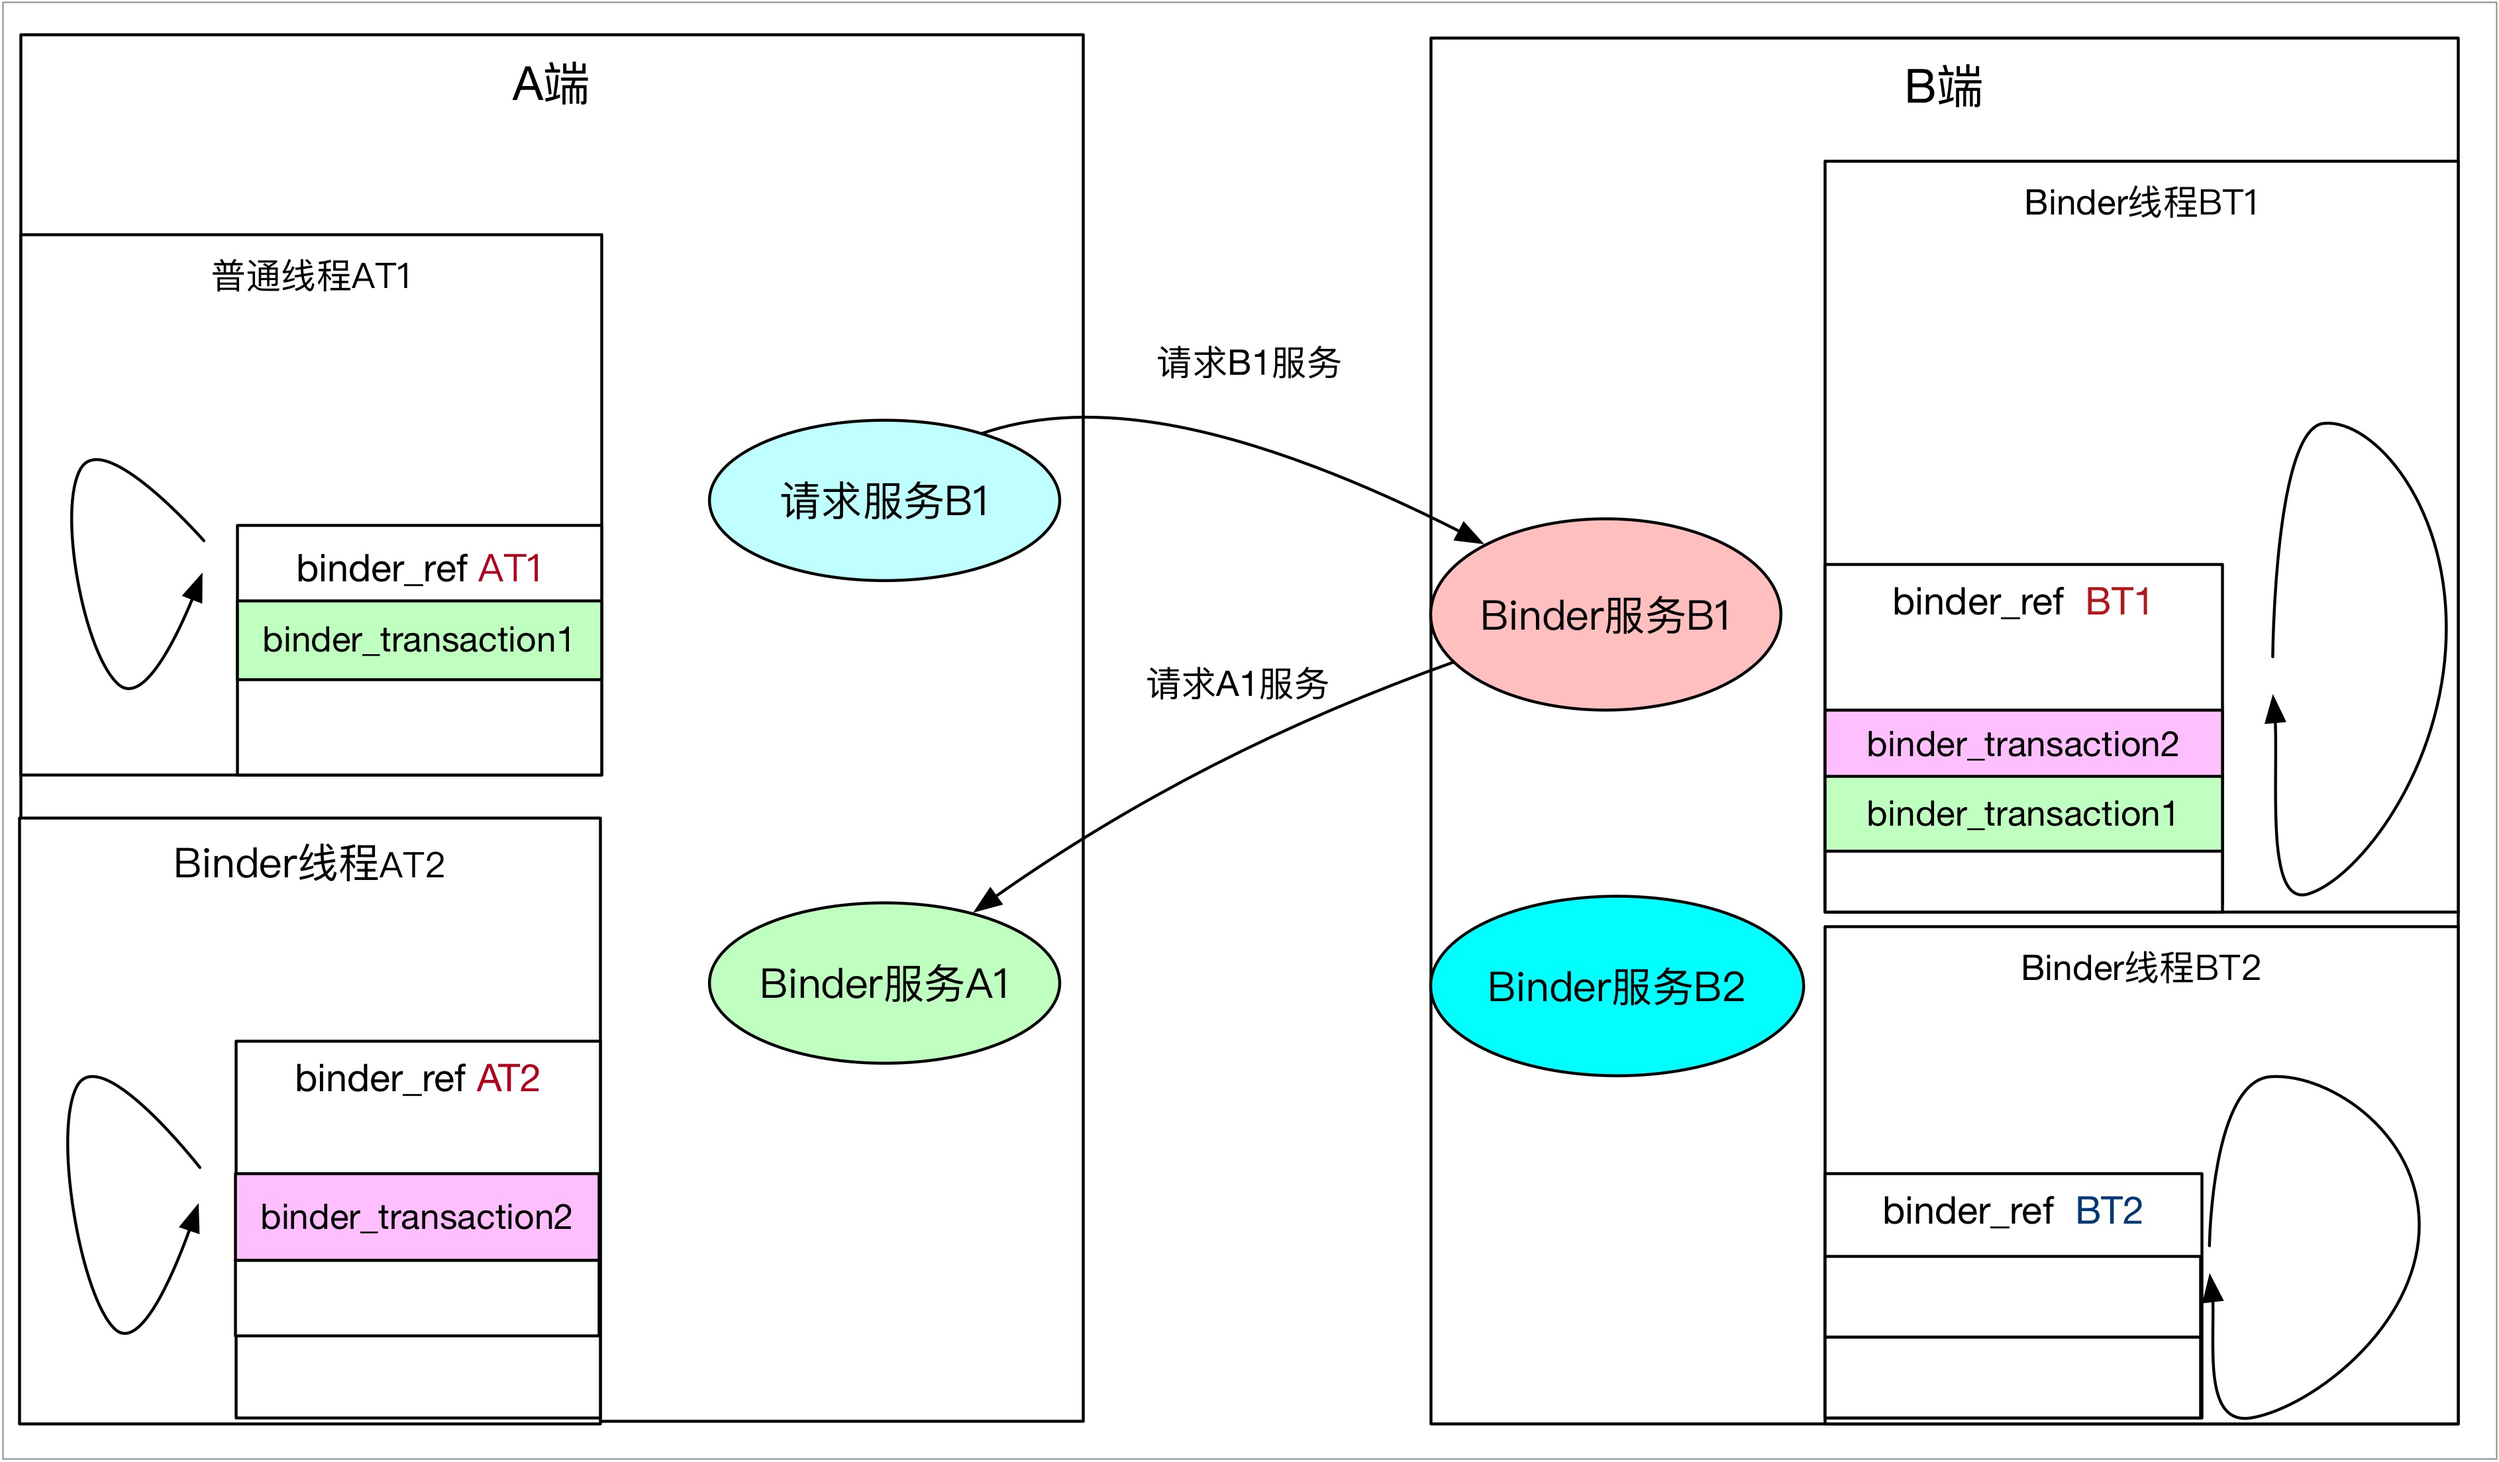
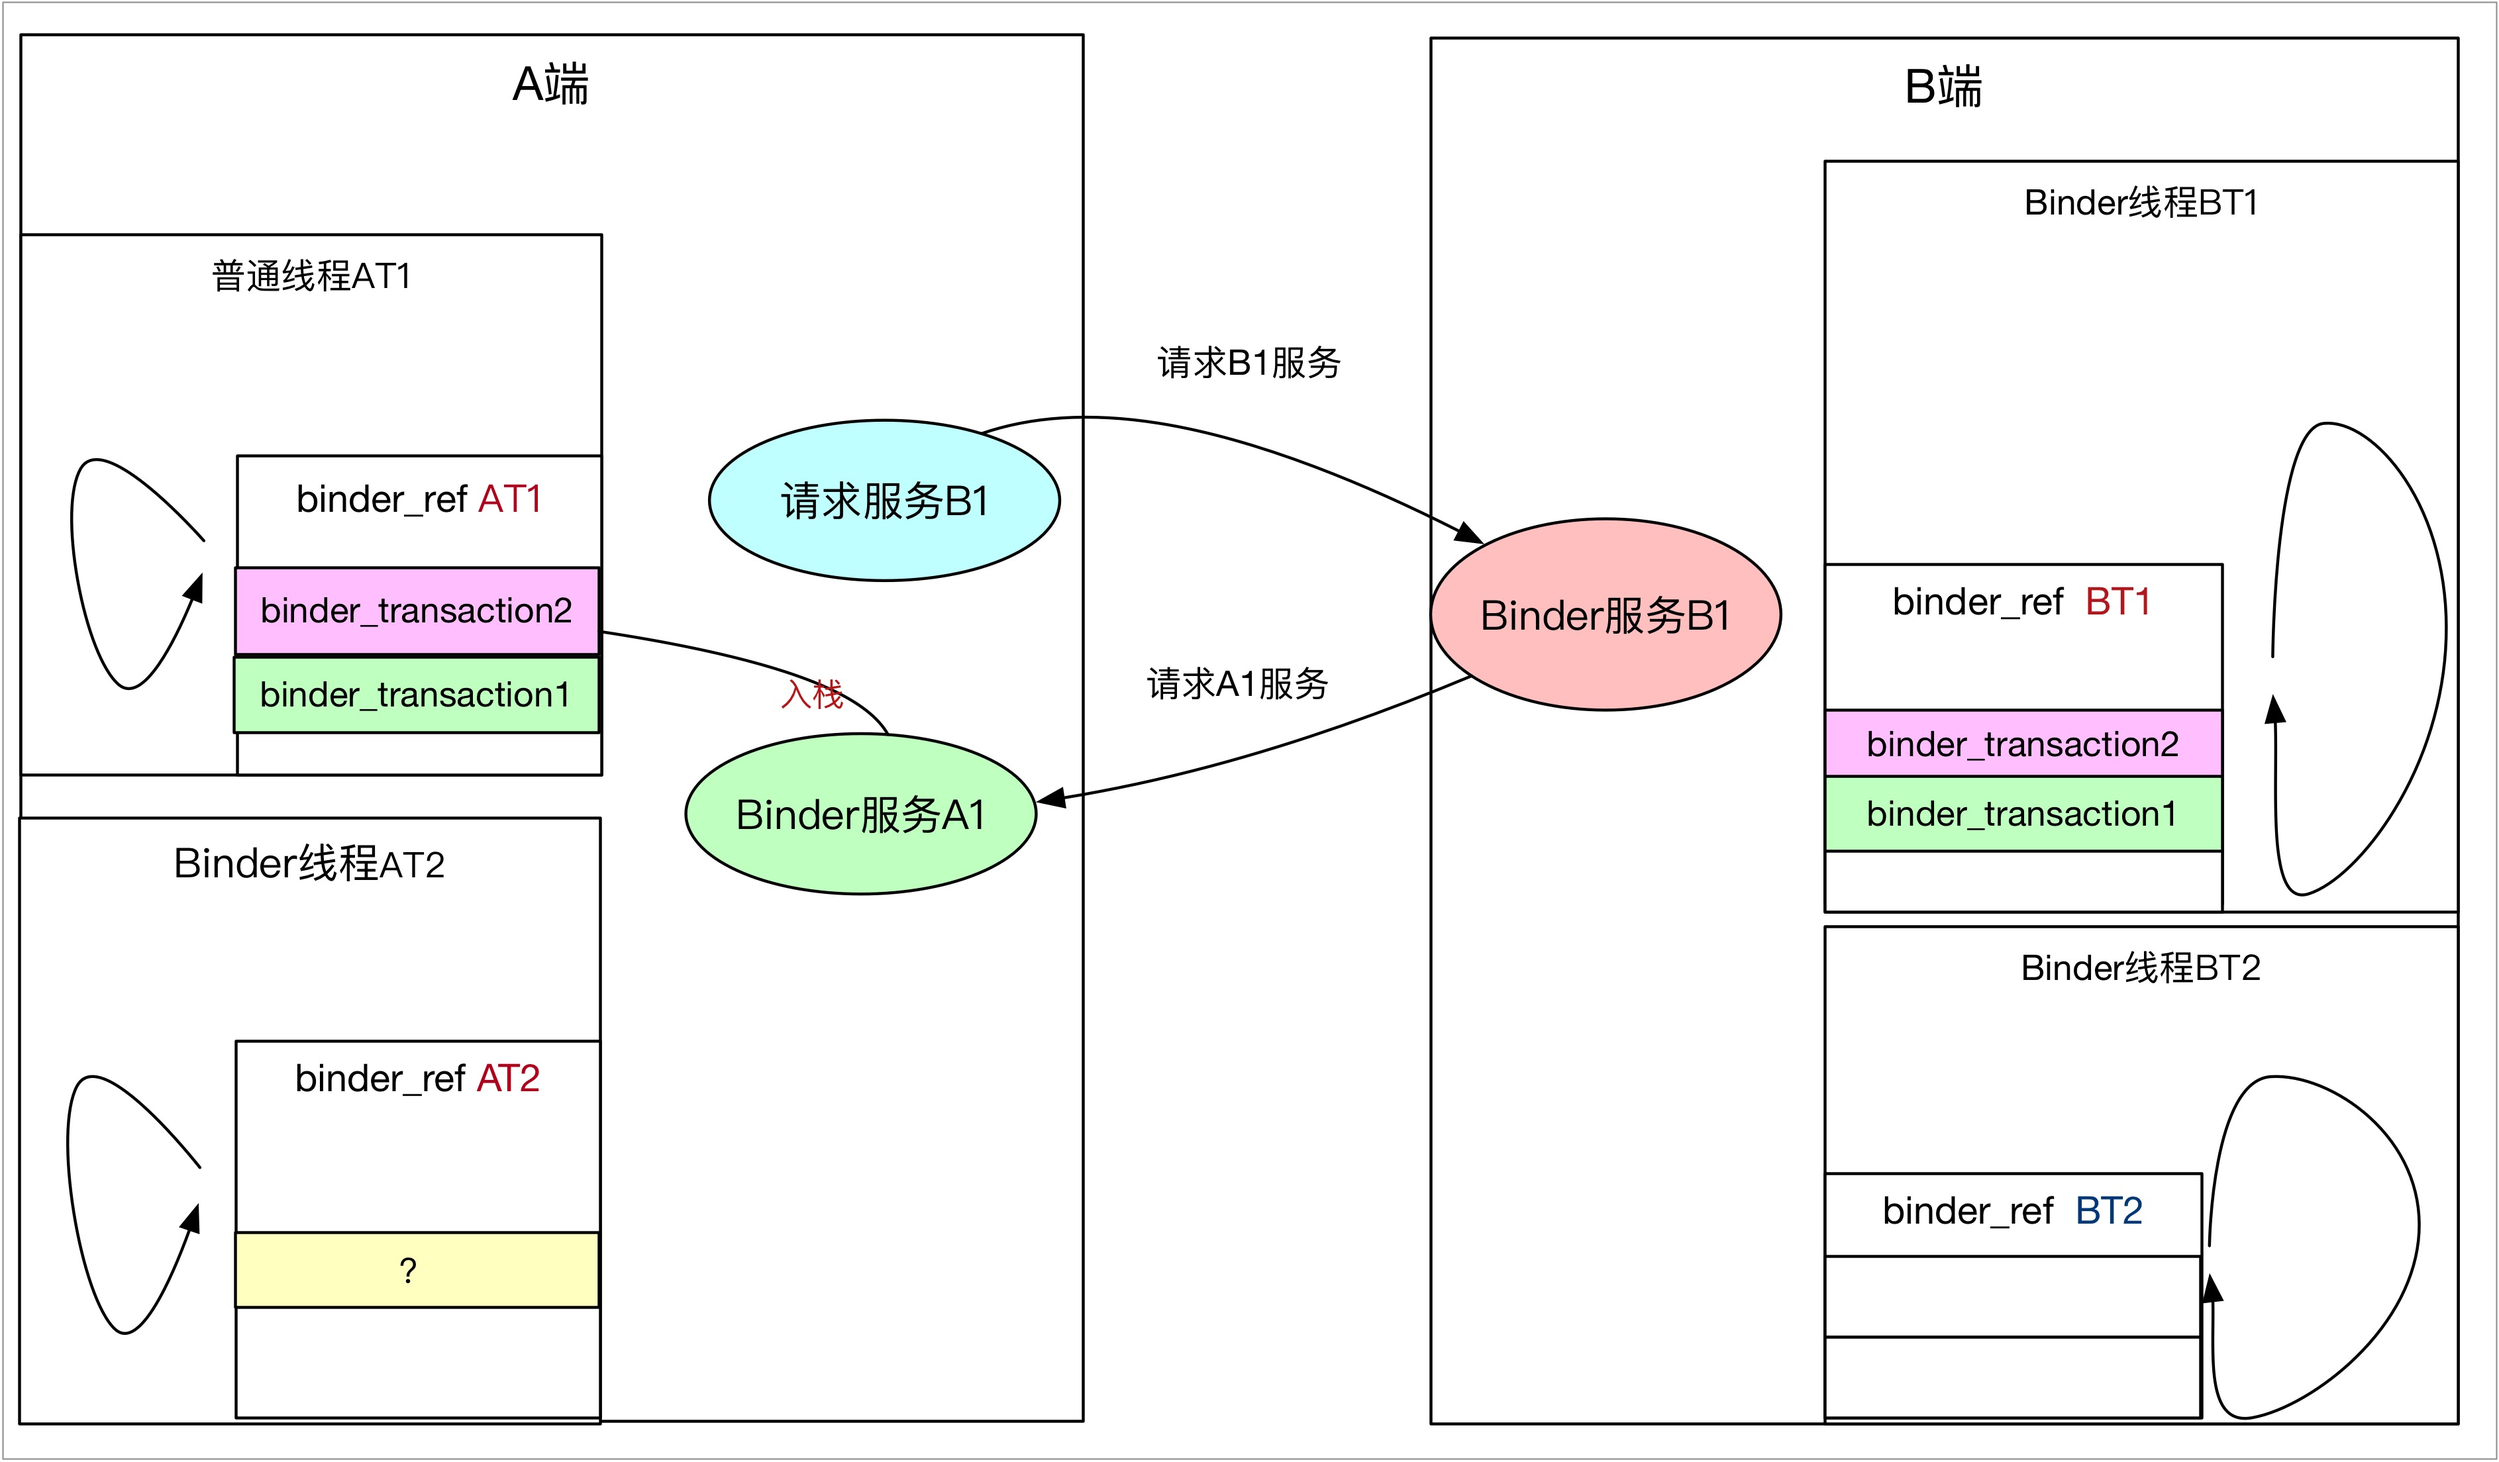
ContentProvider 只是一个抽象接口层

diff --git a/_posts/Android/Binder/2017-2-3-换个姿势深入Binder（二）.md b/_posts/Android/Binder/2017-2-3-换个姿势深入Binder（二）.md
@@ -26,40 +26,35 @@ image: http://upload-images.jianshu.io/upload_images/1460468-4e10b08878b9145c.jp
 
 再看第二部分：在Binder驱动去唤醒线程的时候，唤醒的是哪个等待队列上的线程？
 
-理解这个问题需要理解binder_thread中的 struct binder_transaction * transaction_stack栈，这个栈规定了transaction的执行顺序：**栈顶的一定先于栈内执行**。
+理解这个问题需要理解binder_thread中的 struct binder_transaction * transaction_stack栈，这个栈规定了transaction的执行顺序：栈顶的一定先于栈内执行。
 
 如果本地操作是BC_REPLY,一定是唤醒之前发送等待的线程，这个是100%的，但是如果是BC_TRANSACTION，那就不一定了,尤其是当两端互为服务相互请求的时候，场景如下：
 
 * 进程A的普通线程AT1请求B进程的B1服务，唤醒B进程的Binder线程，AT1睡眠等待服务结束
-* B进程的B1服务在执行的的时候，需要请求进程A的A1服务，则B进程的Binder线程BT1睡眠，唤醒A进程的Binder线程，等待服务结束
-* A进程的A1服务在执行的时候，又需要B进程的B2服务，则A进程的binder线程AT2睡眠，唤醒B进程的Binder线程，等待服务结束
+* B进程的B1服务在执行的的时候，需要请求进程A的A1服务，则B进程的Binder线程BT1睡眠，等待服务结束。
 
-这个时候就会遇到一个问题：唤醒哪个线程比较合适？是睡眠在进程队列上的线程，还是之前睡眠的线程BT1？答案是：之前睡眠的线程BT1，具体看下面的图解分析
+这个时候就会遇到一个问题：唤醒哪个线程比较合适？是睡眠在进程队列上的线程，还是之前睡眠的线程AT1？答案是：之前睡眠等待B服务返回的线程AT1，具体看下面的图解分析
 
 首先第一步A普通线程去请求B进程的B1服务，这个时候在A进程的AT1线程的binder_ref中会将binder_transaction1入栈，而同样B的Binder线程在读取binder_work之后，也会将binder_transaction1加入自己的堆栈，如下图：
 
-![binder_transaction堆栈及唤醒那个队列1](http://upload-images.jianshu.io/upload_images/1460468-bf8383863b7cca9e.jpg?imageMogr2/auto-orient/strip%7CimageView2/2/w/1240)
+![binder_transaction堆栈及唤醒那个队列1.jpg](http://upload-images.jianshu.io/upload_images/1460468-ca53512cddf2e685.jpg?imageMogr2/auto-orient/strip%7CimageView2/2/w/1240)
 
-而当B的Binder线程被唤醒后，执行Binder实体中的服务时，发现服务函数需要反过来去请求A端的A1服务，那就需要通过Binder向A进程发送请求，并新建binder_transaction2压入自己的binder_transaction堆栈，而A进程的Binder线程被唤醒后也会将binder_transaction2加入自己的堆栈，会后效果如下：
+而当B的Binder线程被唤醒后，执行Binder实体中的服务时，发现服务函数需要反过来去请求A端的A1服务，那就需要通过Binder向A进程发送请求，并新建binder_transaction2压入自己的binder_transaction堆栈，这个没有任何问题。但是，在A端入栈的时候，会面临一个抉择，写入那个队列？是binder_proc上的队列，还是正在等候B1服务返回的AT1线程的队列？
 
-![binder_transaction堆栈及唤醒那个队列2.jpg](http://upload-images.jianshu.io/upload_images/1460468-f1b80a2898a7e2cc.jpg?imageMogr2/auto-orient/strip%7CimageView2/2/w/1240)
+![binder_transaction堆栈及唤醒那个队列2.jpg](http://upload-images.jianshu.io/upload_images/1460468-6fba7345a4813d08.jpg?imageMogr2/auto-orient/strip%7CimageView2/2/w/1240)
 
-这个时候，还是没有任何问题，但是恰好在执行A1服务的时候，又需要请求B2服务，这个时候，A1线程重复上述压栈过程，新建binder_transaction3压入自己的栈，不过在写入到目标端B的时候，会面临一个抉择，写入那个队列，是binder_proc上的队列，还是正在等候A返回的BT1线程的队列？
+结果已经说过，是AT1的队列，为什么呢？因为AT1队列上的之前的binder_transaction1在等待B进程执行完，但是B端执行binder_transaction1时候，需要等待binder_transaction2执行完，也就是说，在binder_transaction2执行完毕前，A端的binder_transaction1一定是不会被执行的，也就是线程AT1在B执行binder_transaction2的时候，一定是空闲的，那么，不妨唤醒AT1线程，让它帮忙执行完binder_transaction2，执行完之后，AT1又会睡眠等待B端返回，这样，既不妨碍binder_transaction1的执行，同样也能提高AT1线程利用率，出栈的过程其实就简单了，
 
-![binder_transaction堆栈及唤醒那个队列3.jpg](http://upload-images.jianshu.io/upload_images/1460468-27a4e194dd840848.jpg?imageMogr2/auto-orient/strip%7CimageView2/2/w/1240)
+* AT1 执行binder_transaction2，唤醒B端BT1 Binder线程，并且AT1继续睡眠（因为还有等待的transaction）
+* BT1 处理binder_transaction2结果，并执行完binder_transaction1，唤醒AT1
+* AT1处理binder_transaction1返回结果 执行结束
 
-结果已经说过，是BT1的队列，为什么呢？因为BT1队列上的之前的binder_transaction2在等待A进程执行完，但是A端的binder_transaction3同样要等待binder_transaction3在B进程中执行完毕，也就是说，binder_transaction3在B端一定是先于binder_transaction2执行的，因此唤醒BT1线程，并将binder_transaction3压入BT2的栈，等binder_transaction3执行完毕，出栈后，binder_transaction2才能执行，这样，既不妨碍binder_transaction2的执行，同样也能让睡眠的BT1进程提高利用率，因为最终的堆栈效果就是：
+不妨再深入一点，如果A端binder_transaction2又需要B进程B2服务，这个时候是什么效果唤醒谁，答案是BT1，这就杜绝了两端循环请求的，不断增加线程池容量。
 
-![binder_transaction堆栈及唤醒那个队列4.jpg](http://upload-images.jianshu.io/upload_images/1460468-5b666e626f3e0365.jpg?imageMogr2/auto-orient/strip%7CimageView2/2/w/1240)
+![binder_transaction堆栈及唤醒那个队列3.jpg](http://upload-images.jianshu.io/upload_images/1460468-5b22cdfd4a1a737e.jpg?imageMogr2/auto-orient/strip%7CimageView2/2/w/1240)
 
-而当binder_transaction3完成，出栈的过程其实就简单了，
+从这里可以看出，Binder其实设计的还是很巧妙的，让线程复用，提高了效率，还避免了新建不必要的Binder线程，这段优化在binder驱动实现代码如下：其实就是根据binder_transaction记录，处理入栈唤醒问题
 
-* BT1 执行binder_transaction3，唤醒A端AT2 Binder线程，并且BT1继续睡眠（因为还有等待的transaction）
-* AT2 执行binder_transaction2，唤醒BT1
-* BT1 执行binder_transaction1，唤醒AT1
-* 执行结束
-
-从这里可以看出，其实设计的还是很巧妙的，让线程复用，提高了效率，还避免了新建不必要的Binder线程，在binder驱动中岛实现代码，其实就是根据binder_transaction中堆栈记录查询，
 	static void binder_transaction(struct binder_proc *proc,
 				       struct binder_thread *thread,
 				       struct binder_transaction_data *tr, int reply)
